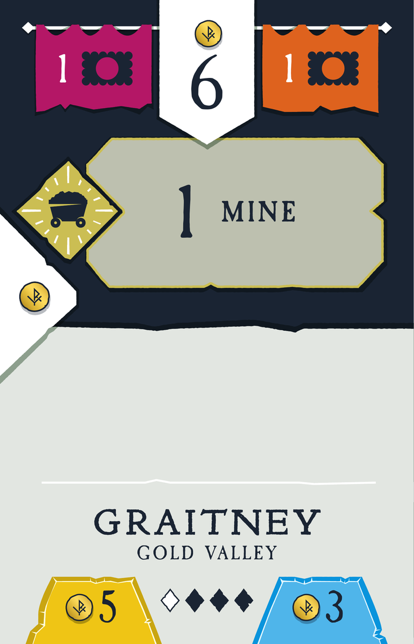
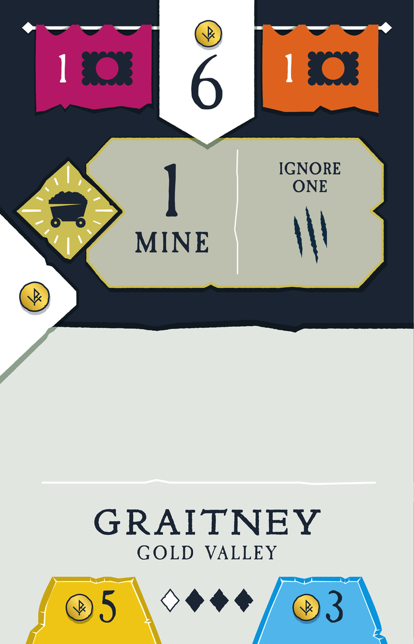
Rocky Ventures: art for revised cards 3, 4, 6 and 7

Changed region(s): [[0.5217, 0.2484, 0.8406, 0.4037], [0.3188, 0.2484, 0.5217, 0.4037], [0.5507, 0.2484, 0.5797, 0.2795]]

diff --git a/games/rocky-ventures-ui/src/lib/images/cards/index.ts b/games/rocky-ventures-ui/src/lib/images/cards/index.ts
@@ -11,46 +11,48 @@ import image8 from './d03.png'
 import image9 from './d04-revised.png'
 import image10 from './d04.png'
 import image11 from './d05.png'
-import image12 from './d06.png'
-import image13 from './d07.png'
-import image14 from './d08-revised.png'
-import image15 from './d08.png'
-import image16 from './d09.png'
-import image17 from './d10-revised.png'
-import image18 from './d10.png'
-import image19 from './d11-revised.png'
-import image20 from './d11.png'
-import image21 from './d12.png'
-import image22 from './d13-revised.png'
-import image23 from './d13.png'
-import image24 from './d14.png'
-import image25 from './d15.png'
-import image26 from './d16.png'
-import image27 from './d17.png'
-import image28 from './d18.png'
-import image29 from './d19.png'
-import image30 from './d20.png'
-import image31 from './d21.png'
-import image32 from './d22-revised.png'
-import image33 from './d22.png'
-import image34 from './d23.png'
-import image35 from './d24.png'
-import image36 from './d25-revised.png'
-import image37 from './d25.png'
-import image38 from './d26-revised.png'
-import image39 from './d26.png'
-import image40 from './d27-revised.png'
-import image41 from './d27.png'
-import image42 from './d28-revised.png'
-import image43 from './d28.png'
-import image44 from './d29-revised.png'
-import image45 from './d29.png'
-import image46 from './d30-revised.png'
-import image47 from './d30.png'
-import image48 from './era1.png'
-import image49 from './era2.png'
-import image50 from './era3.png'
-import image51 from './gameOver.png'
+import image12 from './d06-revised.png'
+import image13 from './d06.png'
+import image14 from './d07-revised.png'
+import image15 from './d07.png'
+import image16 from './d08-revised.png'
+import image17 from './d08.png'
+import image18 from './d09.png'
+import image19 from './d10-revised.png'
+import image20 from './d10.png'
+import image21 from './d11-revised.png'
+import image22 from './d11.png'
+import image23 from './d12.png'
+import image24 from './d13-revised.png'
+import image25 from './d13.png'
+import image26 from './d14.png'
+import image27 from './d15.png'
+import image28 from './d16.png'
+import image29 from './d17.png'
+import image30 from './d18.png'
+import image31 from './d19.png'
+import image32 from './d20.png'
+import image33 from './d21.png'
+import image34 from './d22-revised.png'
+import image35 from './d22.png'
+import image36 from './d23.png'
+import image37 from './d24.png'
+import image38 from './d25-revised.png'
+import image39 from './d25.png'
+import image40 from './d26-revised.png'
+import image41 from './d26.png'
+import image42 from './d27-revised.png'
+import image43 from './d27.png'
+import image44 from './d28-revised.png'
+import image45 from './d28.png'
+import image46 from './d29-revised.png'
+import image47 from './d29.png'
+import image48 from './d30-revised.png'
+import image49 from './d30.png'
+import image50 from './era1.png'
+import image51 from './era2.png'
+import image52 from './era3.png'
+import image53 from './gameOver.png'
 
 // Image URL by file name (without .png)
 export const Images: Record<string, string> = {
@@ -66,44 +68,46 @@ export const Images: Record<string, string> = {
     'd04-revised': image9,
     'd04': image10,
     'd05': image11,
-    'd06': image12,
-    'd07': image13,
-    'd08-revised': image14,
-    'd08': image15,
-    'd09': image16,
-    'd10-revised': image17,
-    'd10': image18,
-    'd11-revised': image19,
-    'd11': image20,
-    'd12': image21,
-    'd13-revised': image22,
-    'd13': image23,
-    'd14': image24,
-    'd15': image25,
-    'd16': image26,
-    'd17': image27,
-    'd18': image28,
-    'd19': image29,
-    'd20': image30,
-    'd21': image31,
-    'd22-revised': image32,
-    'd22': image33,
-    'd23': image34,
-    'd24': image35,
-    'd25-revised': image36,
-    'd25': image37,
-    'd26-revised': image38,
-    'd26': image39,
-    'd27-revised': image40,
-    'd27': image41,
-    'd28-revised': image42,
-    'd28': image43,
-    'd29-revised': image44,
-    'd29': image45,
-    'd30-revised': image46,
-    'd30': image47,
-    'era1': image48,
-    'era2': image49,
-    'era3': image50,
-    'gameOver': image51,
+    'd06-revised': image12,
+    'd06': image13,
+    'd07-revised': image14,
+    'd07': image15,
+    'd08-revised': image16,
+    'd08': image17,
+    'd09': image18,
+    'd10-revised': image19,
+    'd10': image20,
+    'd11-revised': image21,
+    'd11': image22,
+    'd12': image23,
+    'd13-revised': image24,
+    'd13': image25,
+    'd14': image26,
+    'd15': image27,
+    'd16': image28,
+    'd17': image29,
+    'd18': image30,
+    'd19': image31,
+    'd20': image32,
+    'd21': image33,
+    'd22-revised': image34,
+    'd22': image35,
+    'd23': image36,
+    'd24': image37,
+    'd25-revised': image38,
+    'd25': image39,
+    'd26-revised': image40,
+    'd26': image41,
+    'd27-revised': image42,
+    'd27': image43,
+    'd28-revised': image44,
+    'd28': image45,
+    'd29-revised': image46,
+    'd29': image47,
+    'd30-revised': image48,
+    'd30': image49,
+    'era1': image50,
+    'era2': image51,
+    'era3': image52,
+    'gameOver': image53,
 }
